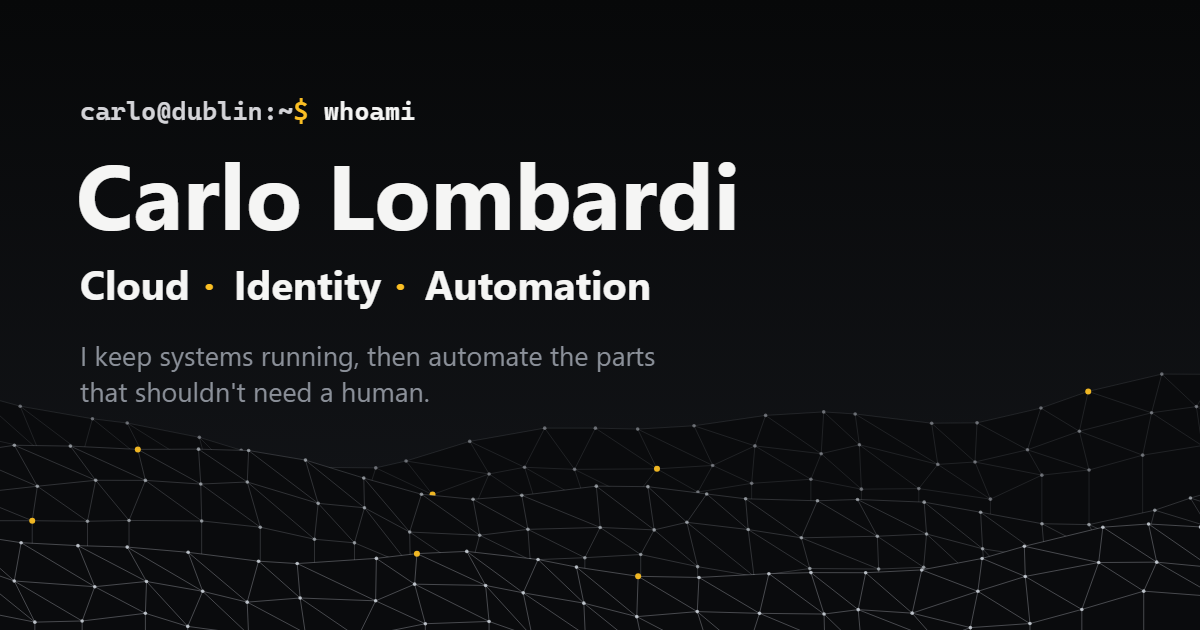
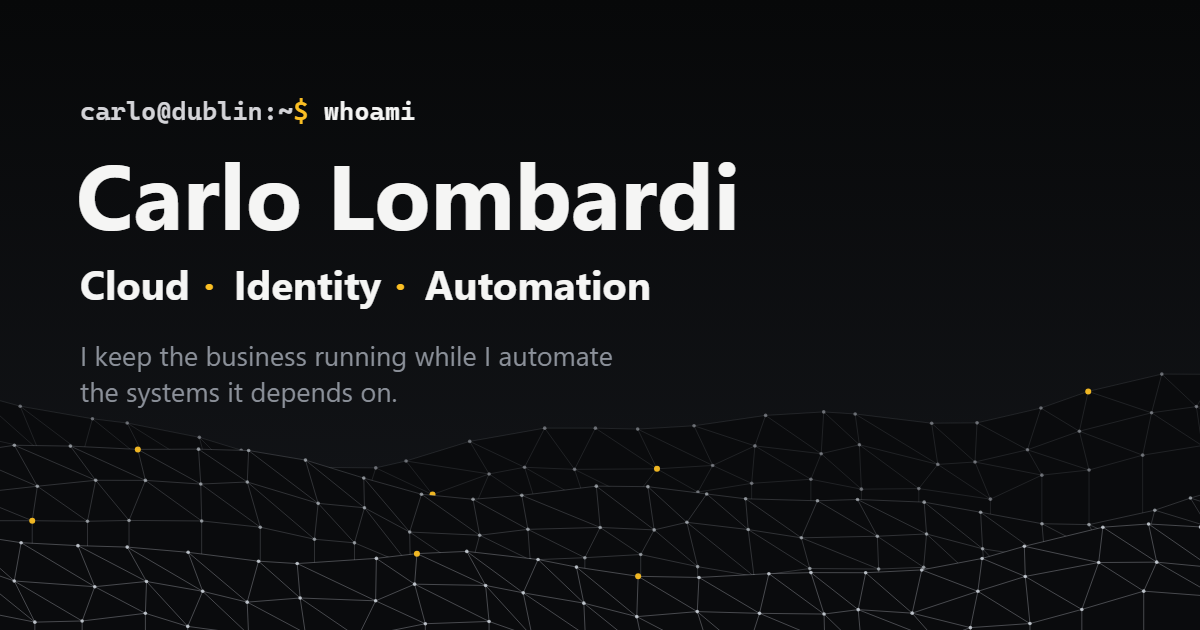
Rewrite copy in plainer language, drop CV quotes and ISO 27001, tighten guardrail rules

Changed region(s): [[0.0925, 0.5429, 0.555, 0.6635]]

diff --git a/site/index.html b/site/index.html
@@ -3,14 +3,14 @@
 <head>
   <meta charset="utf-8">
   <meta name="viewport" content="width=device-width, initial-scale=1">
-  <title>Carlo Lombardi — Cloud · Identity · Automation</title>
+  <title>Carlo Lombardi | Cloud · Identity · Automation</title>
   <meta name="description" content="IT engineer in Dublin working across Microsoft 365, Entra ID, Intune and Azure, building RAG, MCP and guard-railed AI tooling, and moving into DevOps.">
   <meta name="theme-color" content="#070809">
   <meta name="color-scheme" content="dark">
   <link rel="canonical" href="https://carlo-lombardi.github.io/whoami/">
   <meta property="og:type" content="website">
-  <meta property="og:title" content="Carlo Lombardi — Cloud · Identity · Automation">
-  <meta property="og:description" content="I keep systems running, then automate the parts that shouldn't need a human.">
+  <meta property="og:title" content="Carlo Lombardi | Cloud · Identity · Automation">
+  <meta property="og:description" content="I keep the business running while I automate the systems it depends on.">
   <meta property="og:url" content="https://carlo-lombardi.github.io/whoami/">
   <meta property="og:image" content="https://carlo-lombardi.github.io/whoami/og.png">
   <meta property="og:image:width" content="1200">
@@ -37,7 +37,7 @@
       <p class="prompt"><span class="soft">carlo@dublin</span><span class="muted">:</span><span class="soft">~</span><span class="amber">$</span> whoami</p>
       <h1>Carlo Lombardi</h1>
       <p class="tagline">Cloud <span class="amber">·</span> Identity <span class="amber">·</span> Automation</p>
-      <p class="lead">I keep systems running, then automate the parts that shouldn't need a human.</p>
+      <p class="lead">I keep the business running while I automate the systems it depends on.</p>
       <p class="sub">IT engineer in Dublin. I administer Microsoft 365, Entra ID, Intune and Azure, build AI tooling for the IT team, and I am moving into DevOps and cloud engineering.</p>
       <p class="loop"><span class="amber">while</span> (alive) { learn(); build(); ship(); }</p>
     </div>
@@ -47,14 +47,13 @@
     <section class="section wrap" id="work" aria-labelledby="work-h">
       <p class="eyebrow">01 / work</p>
       <h2 id="work-h">What I build and run</h2>
-      <p class="section-lead">Since 2025 I have worked at Fónua, a telecoms fulfilment, repair and logistics operation in Dublin, as an IT Support Engineer. The title is narrower than the job: systems, cloud identity and automation engineering across multiple sites.</p>
-      <p class="disclaimer">The pieces below are illustrative models built for this page and run on synthetic data. The real systems are internal.</p>
+      <p class="section-lead">Since 2025 I have worked at Fónua, a telecoms fulfilment, repair and logistics operation in Dublin, as an IT Support Engineer. My work there covers systems, cloud identity and automation across multiple sites.</p>
+      <p class="disclaimer">The demos below were built for this page and use made-up data. The real systems are internal.</p>
 
       <article class="piece" id="rag" data-doc="Hybrid retrieval (RAG) knowledge system">
         <div class="piece-text">
           <h3>A knowledge system with hybrid retrieval</h3>
           <p>I designed and built a retrieval-augmented (RAG) knowledge system on ChromaDB over resolved incidents and internal documentation. Retrieval is hybrid: dense vector similarity and BM25 keyword matching, fused with reciprocal rank fusion, so a query finds both the passage that means the same thing and the one that contains the exact error code.</p>
-          <p class="cv-line">from the CV: “RAG knowledge system … hybrid retrieval (dense vectors + BM25, reciprocal rank fusion)”</p>
         </div>
         <div class="demo js-only" id="search-demo">
           <p class="demo-title">Search this page the same way</p>
@@ -86,8 +85,7 @@
       <article class="piece" id="mcp" data-doc="Remote MCP server in production">
         <div class="piece-text">
           <h3>An MCP server the whole IT team uses</h3>
-          <p>I delivered a remote MCP (Model Context Protocol) server that exposes that knowledge base to the wider IT team. It runs in production: any colleague's AI client can list the tools and call them, instead of the knowledge living on one laptop.</p>
-          <p class="cv-line">from the CV: “a remote MCP server … running in production”</p>
+          <p>I delivered a remote MCP (Model Context Protocol) server that exposes that knowledge base to the wider IT team. It runs in production, so any colleague's AI client can list the tools and call them.</p>
         </div>
         <div class="demo" id="mcp-demo">
           <p class="demo-title">The conversation, message by message</p>
@@ -111,8 +109,7 @@
       <article class="piece" id="guardrails" data-doc="AI agents with guardrails that block destructive operations">
         <div class="piece-text">
           <h3>Agents that are not allowed to break things</h3>
-          <p>I built specialised AI agents for triage, solution verification and pre-change risk analysis. They work behind guardrails: a hook inspects every command before it runs and blocks destructive operations, so an agent can investigate freely without being able to delete what cannot be recovered.</p>
-          <p class="cv-line">from the CV: “AI agents … with guardrails that block destructive operations”</p>
+          <p>I built specialised AI agents for triage, solution verification and pre-change risk analysis. A hook inspects every command before it runs and blocks destructive operations, so an agent can investigate a problem but cannot delete data.</p>
         </div>
         <div class="demo" id="guard-demo">
           <p class="demo-title">Try to get a command past the hook</p>
@@ -130,10 +127,11 @@
             <caption>Rules the hook checks before execution</caption>
             <thead><tr><th scope="col">Pattern</th><th scope="col">Why it is blocked</th></tr></thead>
             <tbody id="guard-rules">
-              <tr><td><code>rm -rf</code>, <code>Remove-Item -Recurse -Force</code></td><td>Recursive forced delete</td></tr>
+              <tr><td><code>rm</code>, <code>del</code>, <code>delete</code>, <code>erase</code>, <code>rmdir</code></td><td>Deletes files or data</td></tr>
               <tr><td><code>DROP</code>, <code>TRUNCATE</code>, <code>DELETE</code> without <code>WHERE</code></td><td>Irreversible data loss</td></tr>
-              <tr><td><code>Remove-ADUser</code>, <code>Remove-MgUser</code></td><td>Identity deletion needs a change request</td></tr>
+              <tr><td><code>Remove-*</code>, <code>Clear-*</code></td><td>Removal needs a change request</td></tr>
               <tr><td><code>git push --force</code>, <code>git reset --hard</code></td><td>Rewrites history</td></tr>
+              <tr><td><code>shutdown</code>, <code>Restart-Computer</code>, <code>format</code></td><td>Takes a system down</td></tr>
             </tbody>
           </table>
         </div>
@@ -143,7 +141,6 @@
         <div class="piece-text">
           <h3>Identity, from first day to last</h3>
           <p>I administer Microsoft 365 and Entra ID: the identity lifecycle of joiners, movers and leavers, Intune enrolment and compliance, Azure RBAC, and Azure VPN Gateway with SSO and MFA. Access follows group membership, so changing a person's role rewires what they can reach, and leaving removes all of it.</p>
-          <p class="cv-line">from the CV: “identity lifecycle (joiner, mover, leaver), Intune enrolment and compliance, Azure RBAC”</p>
         </div>
         <div class="demo" id="identity-demo" data-state="joiner">
           <p class="demo-title">One person, three events</p>
@@ -172,15 +169,14 @@
             <g class="node on" data-node="mb"><rect x="300" y="162" width="112" height="36" rx="6"/><text x="356" y="185">Ops mailbox</text></g>
             <g class="node" data-node="sp"><rect x="300" y="234" width="112" height="36" rx="6"/><text x="356" y="257">Finance site</text></g>
           </svg>
-          <p class="demo-note" id="identity-note" aria-live="polite">Joiner: account created, licence assigned, added to groups, laptop enrolled. Access arrives through the groups, not by hand.</p>
+          <p class="demo-note" id="identity-note" aria-live="polite">Joiner: account created, licence assigned, added to groups, laptop enrolled. Access comes from group membership.</p>
         </div>
       </article>
 
       <article class="piece" id="certificates" data-doc="Certificate and PKI lifecycle across five platforms, sequenced for risk">
         <div class="piece-text">
-          <h3>Certificates that expire on my schedule, not theirs</h3>
-          <p>I own the certificate and PKI lifecycle across five platforms, including SAML SSO and API certificates on Azure App Service. Production changes are sequenced for risk: non-production first, written confirmation, an out-of-hours rollout, and validation through Application Insights telemetry before anyone calls it done.</p>
-          <p class="cv-line">from the CV: “certificate and PKI lifecycle across five platforms … sequenced for risk”</p>
+          <h3>Certificates renewed before they expire</h3>
+          <p>I own the certificate and PKI lifecycle across five platforms, including SAML SSO and API certificates on Azure App Service. Production changes are sequenced for risk: non-production first, written confirmation, an out-of-hours rollout, then validation through Application Insights telemetry.</p>
         </div>
         <div class="demo" id="cert-demo">
           <p class="demo-title">A renewal, in the order that keeps production safe</p>
@@ -207,12 +203,11 @@
         </div>
       </article>
 
-      <article class="more" id="role" data-doc="Automation, security, compliance, infrastructure and integrations at Fónua">
+      <article class="more" id="role" data-doc="Automation, security, infrastructure and integrations at Fónua">
         <h3>The rest of the role</h3>
         <ul class="plain">
           <li><strong>Automation.</strong> Ticket ingestion and reporting automated with Python, PowerShell and the Freshservice API.</li>
           <li><strong>Security.</strong> Ran an agentic penetration-testing trial end to end, from vendor evaluation to triaged findings.</li>
-          <li><strong>Compliance.</strong> Designed and executed an Intune and Entra ID device enrolment audit, mapped to ISO 27001 controls.</li>
           <li><strong>Infrastructure.</strong> Windows Server, networking, VPN and print infrastructure across sites.</li>
           <li><strong>Integrations.</strong> Courier, customer and partner integrations over APIs and SFTP with key-based authentication, with SQL Server diagnostics.</li>
           <li><strong>Reporting.</strong> Built a Power BI QA dashboard that was adopted as the standard for programme tracking.</li>
@@ -223,7 +218,7 @@
     <section class="section wrap" id="pipeline" aria-labelledby="pipeline-h" data-doc="CI/CD pipeline: GitHub Actions builds, checks and deploys this page to GitHub Pages">
       <p class="eyebrow">02 / pipeline</p>
       <h2 id="pipeline-h">This page is a deployment</h2>
-      <p class="section-lead">The one piece here that is not a simulation. Every push to <code>main</code> runs a GitHub Actions workflow that lints the code, validates the HTML, builds the site, checks every link and asset, and deploys to GitHub Pages. What you are reading is the output of the run below.</p>
+      <p class="section-lead">This part is real. Every push to <code>main</code> runs a GitHub Actions workflow that lints the code, validates the HTML, builds the site, checks every link and asset, and deploys to GitHub Pages. What you are reading is the output of the run below.</p>
       <ol class="stages">
         <li><span class="stage-name">lint</span><span class="stage-desc">ESLint</span></li>
         <li><span class="stage-name">validate</span><span class="stage-desc">html-validate</span></li>
@@ -233,8 +228,8 @@
       </ol>
       <dl class="stamp" id="stamp">
         <div><dt>commit</dt><dd id="stamp-commit">loads with JavaScript</dd></div>
-        <div><dt>run</dt><dd id="stamp-run">—</dd></div>
-        <div><dt>built</dt><dd id="stamp-date">—</dd></div>
+        <div><dt>run</dt><dd id="stamp-run">-</dd></div>
+        <div><dt>built</dt><dd id="stamp-date">-</dd></div>
         <div><dt>source</dt><dd><a href="https://github.com/carlo-lombardi/whoami">github.com/carlo-lombardi/whoami</a></dd></div>
       </dl>
     </section>
@@ -244,28 +239,28 @@
       <h2 id="path-h">How I got here</h2>
       <p class="section-lead">From writing application code, to keeping hospital and power-grid systems alive around the clock, to building the tooling myself.</p>
       <ol class="timeline">
-        <li data-doc="Fónua — IT Support Engineer, Dublin, 2025 to present">
-          <p class="when">2025 — now</p>
+        <li data-doc="Fónua, IT Support Engineer, Dublin, 2025 to present">
+          <p class="when">2025 to now</p>
           <h3>IT Support Engineer <span class="at">Fónua · Dublin</span></h3>
           <p>Systems, cloud identity and automation engineering for a telecoms fulfilment, repair and logistics operation: Microsoft 365, Entra ID, Intune, Azure, certificates, and AI tooling for the IT team.</p>
         </li>
-        <li data-doc="Origina — Service Desk Engineer, Dublin, 2025">
+        <li data-doc="Origina, Service Desk Engineer, Dublin, 2025">
           <p class="when">2025</p>
           <h3>Service Desk Engineer <span class="at">Origina · Dublin</span></h3>
           <p>Coordinated customer interactions and technical escalations for IBM solutions across every incident priority, P1 to P4. Led technical bridge calls and kept action items moving until resolution. Wrote knowledge base articles and root cause reports, and resolved Azure access, authentication and SharePoint permission incidents.</p>
         </li>
-        <li data-doc="Auxilion / EirGrid — 24/7 Technical Support Engineer, critical national infrastructure, 2024 to 2025">
-          <p class="when">2024 — 2025</p>
+        <li data-doc="Auxilion / EirGrid, 24/7 Technical Support Engineer, critical national infrastructure, 2024 to 2025">
+          <p class="when">2024 to 2025</p>
           <h3>24/7 Technical Support Engineer <span class="at">Auxilion / EirGrid · Dublin</span></h3>
           <p>First and second line support in a critical national infrastructure environment. Managed accounts and onboarding across on-premises Active Directory and Azure AD, monitored and escalated incidents across Windows Server, Linux and databases, coordinated certificate issuance, and used Intune for device management.</p>
         </li>
-        <li data-doc="TCS / GE HealthCare — IT Support Specialist: PACS, DICOM, Java, Linux, VMware, production outage restored, 2023 to 2024">
-          <p class="when">2023 — 2024</p>
+        <li data-doc="TCS / GE HealthCare, IT Support Specialist: PACS, DICOM, Java, Linux, VMware, production outage restored, 2023 to 2024">
+          <p class="when">2023 to 2024</p>
           <h3>IT Support Specialist <span class="at">TCS / GE HealthCare · Donegal</span></h3>
-          <p>Supported production healthcare systems: PACS, RIS, cardiology systems and DICOM integrations. Troubleshot Java applications through logs, JVM behaviour and heap and thread inspection; Windows Server on VMware and Hyper-V; Linux disks, RAID and file systems; Oracle, SQL Server and Sybase. Restored a production PACS server outage, and never forgot it.</p>
+          <p>Supported production healthcare systems: PACS, RIS, cardiology systems and DICOM integrations. Troubleshot Java applications through logs, JVM behaviour and heap and thread inspection; Windows Server on VMware and Hyper-V; Linux disks, RAID and file systems; Oracle, SQL Server and Sybase. Restored a production PACS server after an outage.</p>
         </li>
-        <li data-doc="Qubiq — Full Stack Developer: JavaScript, Node.js, TypeScript, React, Next.js, 2021 to 2022">
-          <p class="when">2021 — 2022</p>
+        <li data-doc="Qubiq, Full Stack Developer: JavaScript, Node.js, TypeScript, React, Next.js, 2021 to 2022">
+          <p class="when">2021 to 2022</p>
           <h3>Full Stack Developer <span class="at">Qubiq · Italy, remote</span></h3>
           <p>Built and maintained internal tools and web solutions for insurers and affiliates: JavaScript and Node.js API logic, SAP integrations through API endpoints, TypeScript and React components, and server-side work with Next.js.</p>
         </li>
@@ -276,16 +271,16 @@
       <p class="eyebrow">04 / learning</p>
       <h2 id="learning-h">What I am studying</h2>
       <div class="cards">
-        <article class="card" data-doc="Higher Diploma in Science in Computing (Cybersecurity), National College of Ireland — in progress">
+        <article class="card" data-doc="Higher Diploma in Science in Computing (Cybersecurity), National College of Ireland, in progress">
           <p class="status live">in progress · 2026–27</p>
           <h3>Higher Diploma in Science in Computing (Cybersecurity)</h3>
           <p class="at">National College of Ireland · NFQ Level 8 · evenings</p>
           <p>This semester: Software Development, Object Oriented Software Engineering, Web Design and Client Side Scripting, and Introduction to Databases. The programme curriculum continues with Computer Architecture, Operating Systems and Networks, Security Principles and Secure Programming, Network and Web Penetration Testing, Digital Forensics, and a final project.</p>
         </article>
-        <article class="card" data-doc="Microsoft Azure Administrator AZ-104 — in progress">
+        <article class="card" data-doc="Microsoft Azure Administrator AZ-104, in progress">
           <p class="status live">in progress</p>
           <h3>Microsoft Azure Administrator (AZ-104)</h3>
-          <p>Identities and governance, storage, compute, virtual networking, and monitoring. The exam that names what I already do at work.</p>
+          <p>Identities and governance, storage, compute, virtual networking, and monitoring.</p>
         </article>
         <article class="card" data-doc="CompTIA A+ certification and full stack bootcamp: React, Node.js, MongoDB, PostgreSQL">
           <p class="status">completed</p>
@@ -303,7 +298,7 @@
     <section class="section wrap" id="next" aria-labelledby="next-h" data-doc="Roadmap, planned: Terraform, Docker, GitHub Actions, Kubernetes, GitOps, observability, supply chain security">
       <p class="eyebrow">05 / next</p>
       <h2 id="next-h">What comes next</h2>
-      <p class="section-lead">Where I am heading: DevOps with a security edge. Everything in this section is <strong>planned, not started</strong>. It is a direction, not a claim.</p>
+      <p class="section-lead">I am heading towards DevOps with a focus on security. These are the certifications and projects I plan to do next. I have not started them yet.</p>
       <div class="next-grid">
         <div>
           <h3>Certifications planned</h3>
@@ -335,7 +330,7 @@
       <p class="eyebrow">06 / tools</p>
       <h2 id="tools-h">What I work with</h2>
       <ul class="tags">
-        <li>Azure</li><li>Entra ID</li><li>Intune</li><li>Microsoft 365</li><li>Active Directory</li><li>Windows Server</li><li>Linux</li><li>PowerShell</li><li>Python</li><li>Bash</li><li>SQL Server</li><li>VMware</li><li>RAG</li><li>MCP</li><li>ISO 27001</li><li>ITSM</li>
+        <li>Azure</li><li>Entra ID</li><li>Intune</li><li>Microsoft 365</li><li>Active Directory</li><li>Windows Server</li><li>Linux</li><li>PowerShell</li><li>Python</li><li>Bash</li><li>SQL Server</li><li>VMware</li><li>RAG</li><li>MCP</li><li>ITSM</li>
       </ul>
       <p class="langs">Spanish, native · English, professional</p>
     </section>

diff --git a/site/js/guardrail.js b/site/js/guardrail.js
@@ -2,14 +2,14 @@
 // A working model of the guardrails described in the CV; nothing is ever executed.
 
 export const RULES = [
-  { row: 0, test: /\brm\s+(-[a-z]*r[a-z]*f|-[a-z]*f[a-z]*r|--recursive\s+--force)/i, reason: 'recursive forced delete' },
-  { row: 0, test: /\bremove-item\b(?=.*-recurse)(?=.*-force)/i, reason: 'recursive forced delete' },
-  { row: 1, test: /\b(drop\s+(table|database|schema)|truncate\s+table)\b/i, reason: 'irreversible data loss' },
+  { row: 0, test: /(^|[;&|]\s*)(sudo\s+)?(rm|del|erase|rmdir|rd|unlink|shred|wipe|purge|destroy)\b/i, reason: 'deletes files or data' },
+  { row: 0, test: /^\s*delete\b(?!\s+from\b)/i, reason: 'deletes files or data' },
+  { row: 1, test: /\b(drop\s+(table|database|schema)|truncate(\s+table)?)\b/i, reason: 'irreversible data loss' },
   { row: 1, test: /\bdelete\s+from\b(?!.*\bwhere\b)/i, reason: 'DELETE without WHERE removes every row' },
-  { row: 2, test: /\bremove-(aduser|mguser|mailbox|adgroup)\b/i, reason: 'identity deletion needs a change request' },
+  { row: 2, test: /\b(remove|clear)-[a-z]+/i, reason: 'removal needs a change request' },
   { row: 3, test: /\bgit\s+push\b.*(--force|-f\b)/i, reason: 'force push rewrites shared history' },
   { row: 3, test: /\bgit\s+reset\s+--hard\b/i, reason: 'hard reset discards work' },
-  { row: -1, test: /\b(mkfs|format-volume|diskpart)\b|\bdd\s+if=/i, reason: 'writes directly to a disk' }
+  { row: 4, test: /\b(shutdown|reboot|halt|restart-computer|stop-computer|mkfs|format|format-volume|diskpart)\b|\bdd\s+if=/i, reason: 'takes a system down or wipes a disk' }
 ];
 
 const READ_ONLY = /^\s*(get-|select\b|ls\b|dir\b|cat\b|type\b|git\s+(status|log|diff)\b|whoami\b|ping\b|test-)/i;

diff --git a/site/js/identity.js b/site/js/identity.js
@@ -4,12 +4,12 @@ const STATES = {
   joiner: {
     edges: ['u-all', 'u-wh', 'all-vpn', 'all-lap', 'wh-mb'],
     nodes: ['user', 'all', 'wh', 'vpn', 'lap', 'mb'],
-    note: 'Joiner: account created, licence assigned, added to groups, laptop enrolled. Access arrives through the groups, not by hand.'
+    note: 'Joiner: account created, licence assigned, added to groups, laptop enrolled. Access comes from group membership.'
   },
   mover: {
     edges: ['u-all', 'u-fin', 'all-vpn', 'all-lap', 'fin-sp'],
     nodes: ['user', 'all', 'fin', 'vpn', 'lap', 'sp'],
-    note: 'Mover: one group swapped for another. The old mailbox access goes at the same moment the new site access arrives, so nothing lingers.'
+    note: 'Mover: one group swapped for another. The old mailbox access is removed when the new site access is added.'
   },
   leaver: {
     edges: [],

diff --git a/tools/og.html b/tools/og.html
@@ -110,8 +110,8 @@ let cx = x;
 
 ctx.font = `400 27px ${SANS}`;
 ctx.fillStyle = '#8b9099';
-ctx.fillText('I keep systems running, then automate the parts', x, 366);
-ctx.fillText("that shouldn't need a human.", x, 402);
+ctx.fillText('I keep the business running while I automate', x, 366);
+ctx.fillText('the systems it depends on.', x, 402);
 </script>
 </body>
 </html>

diff --git a/site/js/stamp.js b/site/js/stamp.js
@@ -34,6 +34,6 @@ export async function initStamp() {
 
   const built = new Date(build.builtAt);
   date.textContent = Number.isNaN(built.getTime())
-    ? '—'
+    ? '-'
     : `${built.toISOString().slice(0, 16).replace('T', ' ')} UTC`;
 }

diff --git a/README.md b/README.md
@@ -1,6 +1,6 @@
 # whoami
 
-Portfolio of Carlo Lombardi — IT engineer in Dublin working in cloud, identity and
+Portfolio of Carlo Lombardi, an IT engineer in Dublin working in cloud, identity and
 automation, moving into DevOps.
 
 **Live:** https://carlo-lombardi.github.io/whoami/
@@ -48,13 +48,13 @@ tools/og.html    source of the Open Graph image
 
 [`deploy.yml`](.github/workflows/deploy.yml) runs on every push to `main`:
 
-1. **Lint** — ESLint.
-2. **Validate** — html-validate.
-3. **Test** — `node --test` over the BM25, similarity, RRF and guardrail logic.
-4. **Build** — copy `site/` to `dist/` and write `build.json` with the commit SHA, run
+1. **Lint**: ESLint.
+2. **Validate**: html-validate.
+3. **Test**: `node --test` over the BM25, similarity, RRF and guardrail logic.
+4. **Build**: copy `site/` to `dist/` and write `build.json` with the commit SHA, run
    number and timestamp. The page reads that file to show which run deployed it.
-5. **Check** — every local link, asset, anchor and module import in `dist/` resolves.
-6. **Deploy** — `configure-pages`, `upload-pages-artifact`, `deploy-pages`.
+5. **Check**: every local link, asset, anchor and module import in `dist/` resolves.
+6. **Deploy**: `configure-pages`, `upload-pages-artifact`, `deploy-pages`.
 
 Pull requests run steps 1 to 5 without deploying.
 
